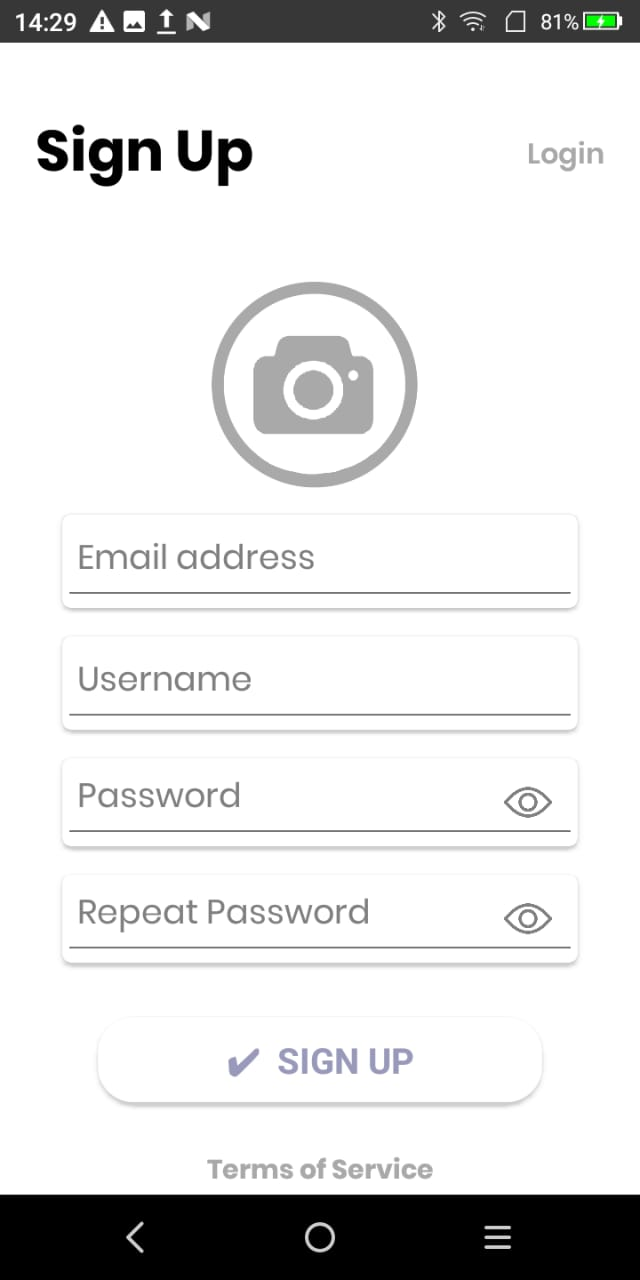
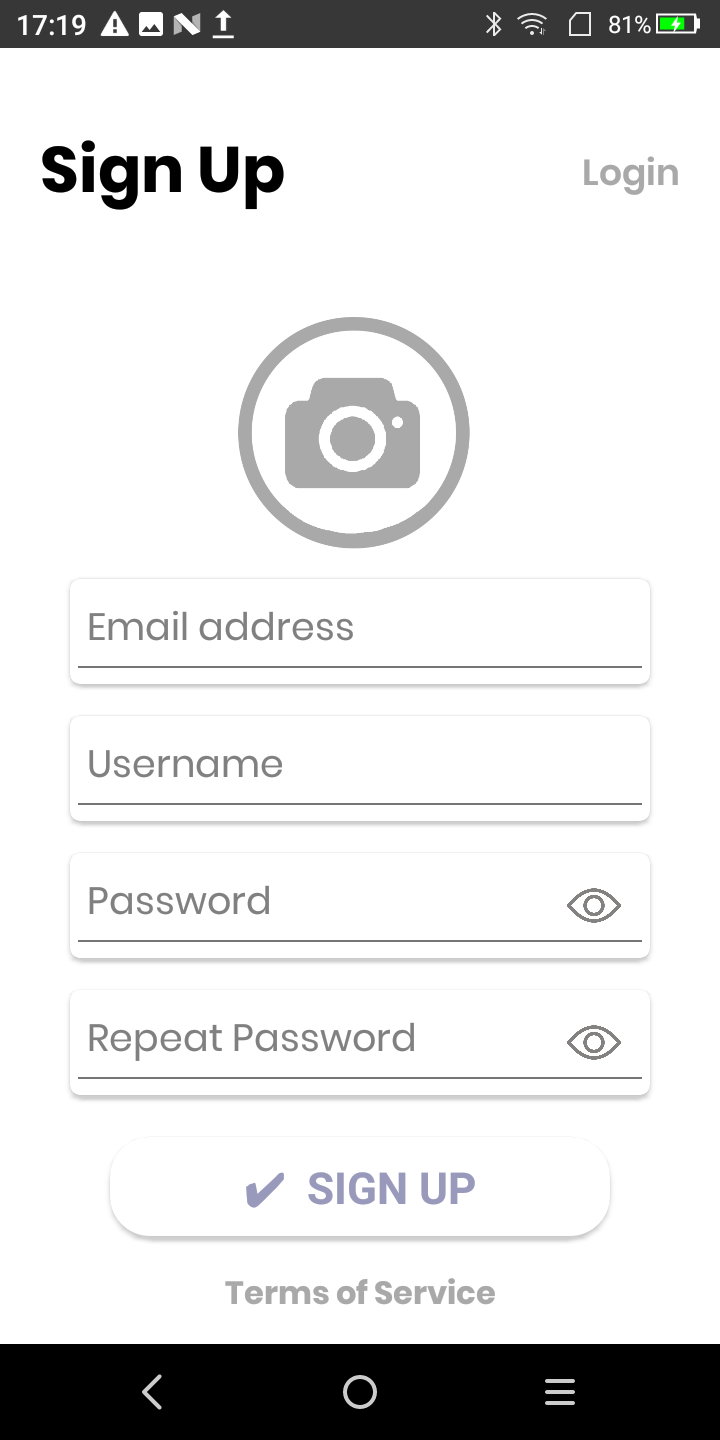
Fixing Charlin's Comments

diff --git a/Homework01/Homework01/Views/SignUpPage.xaml b/Homework01/Homework01/Views/SignUpPage.xaml
@@ -7,77 +7,81 @@
              BackgroundColor="White"
              x:Class="Homework01.Views.SignUpPage">
     <ContentPage.Content>
-        <Grid>
-            <Grid.ColumnDefinitions>
-                <ColumnDefinition Width="0.1*"></ColumnDefinition>
-                <ColumnDefinition Width="*"></ColumnDefinition>
-                <ColumnDefinition Width="0.1*"></ColumnDefinition>
-            </Grid.ColumnDefinitions>
-            <Grid.RowDefinitions>
-                <RowDefinition Height="2*"></RowDefinition>
-                <RowDefinition Height="8*"></RowDefinition>
-            </Grid.RowDefinitions>
+        <ScrollView>
 
-            <Label Grid.Column="0" Grid.ColumnSpan="2" Grid.Row="0" HorizontalTextAlignment="Start" VerticalTextAlignment="Center" FontFamily="{StaticResource PoppinsBoldFont}"
-                   Style="{StaticResource LabelStyle}" TextColor="Black" FontAttributes="Bold" FontSize="32"  Text="Sign Up" Margin="20,0"/>
+            <Grid>
+                <Grid.ColumnDefinitions>
+                    <ColumnDefinition Width="0.1*"></ColumnDefinition>
+                    <ColumnDefinition Width="*"></ColumnDefinition>
+                    <ColumnDefinition Width="0.1*"></ColumnDefinition>
+                </Grid.ColumnDefinitions>
+                <Grid.RowDefinitions>
+                    <RowDefinition Height="2*"></RowDefinition>
+                    <RowDefinition Height="8*"></RowDefinition>
+                </Grid.RowDefinitions>
 
-            <Label Grid.Column="1" Grid.ColumnSpan="2" Grid.Row="0" HorizontalTextAlignment="End" VerticalTextAlignment="Center" FontFamily="{StaticResource PoppinsSemiBoldFont}"
-                   Style="{StaticResource LabelStyle}" TextColor="DarkGray" Text="Login" FontAttributes="Bold" FontSize="16" Margin="20,0">
-                <Label.GestureRecognizers>
-                    <TapGestureRecognizer Command="{Binding LoginCommand}"></TapGestureRecognizer>
-                </Label.GestureRecognizers>
-            </Label>
-            <StackLayout Grid.Column="1" Grid.Row="1" HorizontalOptions="Center" VerticalOptions="Start">
+                <Label Grid.Column="0" Grid.ColumnSpan="2" Grid.Row="0" HorizontalTextAlignment="Start" VerticalTextAlignment="Center" FontFamily="{StaticResource PoppinsBoldFont}"
+                       Style="{StaticResource LabelStyle}" TextColor="Black" FontAttributes="Bold" FontSize="32"  Text="Sign Up" Margin="20,0"/>
 
-                <Image Source="ic_camara" HeightRequest="120" WidthRequest="120"></Image>
+                <Label Grid.Column="1" Grid.ColumnSpan="2" Grid.Row="0" HorizontalTextAlignment="End" VerticalTextAlignment="Center" FontFamily="{StaticResource PoppinsSemiBoldFont}"
+                       Style="{StaticResource LabelStyle}" TextColor="DarkGray" Text="Login" FontAttributes="Bold" FontSize="18" Margin="20,0">
+                    <Label.GestureRecognizers>
+                        <TapGestureRecognizer Command="{Binding LoginCommand}"></TapGestureRecognizer>
+                    </Label.GestureRecognizers>
+                </Label>
 
-                <Frame CornerRadius="5" Margin="0,5,0,5" Padding="0,0" HasShadow="True">
-                    <Entry Placeholder=" Email address "  PlaceholderColor="Gray" FontFamily="{StaticResource PoppinsFont}"
-                           HorizontalTextAlignment="Start" Text="{Binding User}"  FontSize="19"/>
-                </Frame>
+                <StackLayout Grid.Column="1" Grid.Row="1" HorizontalOptions="Center" VerticalOptions="Start" Margin="0,0,0,-20">
 
-                <Frame CornerRadius="5" Margin="0,5,0,5" Padding="0,0" HasShadow="True">
-                    <Entry Placeholder=" Username "  PlaceholderColor="Gray" FontFamily="{StaticResource PoppinsFont}"
-                           HorizontalTextAlignment="Start" Text="{Binding User}"  FontSize="19"/>
-                </Frame>
+                    <Image Source="ic_camara" HeightRequest="120" WidthRequest="120"></Image>
 
-                <Frame CornerRadius="5" Margin="0,5" Padding="0,0" HasShadow="True">
-                    <Grid>
-                        <Grid.ColumnDefinitions>
-                            <ColumnDefinition Width="9*"></ColumnDefinition>
-                            <ColumnDefinition Width="2*"></ColumnDefinition>
-                        </Grid.ColumnDefinitions>
+                    <Frame CornerRadius="5" Margin="0,5,0,5" Padding="0,0" HasShadow="True">
+                        <Entry Placeholder=" Email address "  PlaceholderColor="Gray" FontFamily="{StaticResource PoppinsFont}"
+                               HorizontalTextAlignment="Start" Text="{Binding User}"  FontSize="19"/>
+                    </Frame>
 
-                        <Entry Grid.Column="0" Grid.ColumnSpan="2" Placeholder=" Password"  PlaceholderColor="Gray" FontSize="19" 
-                               HorizontalTextAlignment="Start" Text="{Binding Password}"  FontFamily="{StaticResource PoppinsFont}" />
-                        <Image Grid.Column="1" Source="ic_eye" HeightRequest="0" Margin="10,0,15,0"/>
-                    </Grid>
-                </Frame>
+                    <Frame CornerRadius="5" Margin="0,5,0,5" Padding="0,0" HasShadow="True">
+                        <Entry Placeholder=" Username "  PlaceholderColor="Gray" FontFamily="{StaticResource PoppinsFont}"
+                               HorizontalTextAlignment="Start" Text="{Binding User}"  FontSize="19"/>
+                    </Frame>
 
-                <Frame CornerRadius="5" Margin="0,5" Padding="0,0" HasShadow="True">
-                    <Grid>
-                        <Grid.ColumnDefinitions>
-                            <ColumnDefinition Width="9*"></ColumnDefinition>
-                            <ColumnDefinition Width="2*"></ColumnDefinition>
-                        </Grid.ColumnDefinitions>
+                    <Frame CornerRadius="5" Margin="0,5" Padding="0,0" HasShadow="True">
+                        <Grid>
+                            <Grid.ColumnDefinitions>
+                                <ColumnDefinition Width="9*"></ColumnDefinition>
+                                <ColumnDefinition Width="2*"></ColumnDefinition>
+                            </Grid.ColumnDefinitions>
 
-                        <Entry Grid.Column="0" Grid.ColumnSpan="2" Placeholder=" Repeat Password"  PlaceholderColor="Gray" FontSize="19" 
-                               HorizontalTextAlignment="Start" Text="{Binding Password}"  FontFamily="{StaticResource PoppinsFont}" />
-                        <Image Grid.Column="1" Source="ic_eye" HeightRequest="0" Margin="10,0,15,0"/>
-                    </Grid>
-                </Frame>
+                            <Entry Grid.Column="0" Grid.ColumnSpan="2" Placeholder=" Password"  PlaceholderColor="Gray" FontSize="19" IsPassword="True"
+                                   HorizontalTextAlignment="Start" Text="{Binding Password}"  FontFamily="{StaticResource PoppinsFont}" />
+                            <Image Grid.Column="1" Source="ic_eye" HeightRequest="0" Margin="10,0,15,0"/>
+                        </Grid>
+                    </Frame>
+
+                    <Frame CornerRadius="5" Margin="0,5" Padding="0,0" HasShadow="True">
+                        <Grid>
+                            <Grid.ColumnDefinitions>
+                                <ColumnDefinition Width="9*"></ColumnDefinition>
+                                <ColumnDefinition Width="2*"></ColumnDefinition>
+                            </Grid.ColumnDefinitions>
+
+                            <Entry Grid.Column="0" Grid.ColumnSpan="2" Placeholder=" Repeat Password"  PlaceholderColor="Gray" FontSize="19" IsPassword="True"
+                                   HorizontalTextAlignment="Start" Text="{Binding ConfirmPassword}"  FontFamily="{StaticResource PoppinsFont}" />
+                            <Image Grid.Column="1" Source="ic_eye" HeightRequest="0" Margin="10,0,15,0"/>
+                        </Grid>
+                    </Frame>
 
 
-                <Frame BackgroundColor="FloralWhite" Margin="20,20" Padding="0,0" HasShadow="True" CornerRadius="20" BorderColor="DarkGray">
-                    <Button BackgroundColor="White" BorderColor="DarkGray" TextColor="#999abb" 
-                                Text="&#x2714;  Sign Up"  FontAttributes="Bold" FontSize="20"></Button>
-                </Frame>
+                    <Frame BackgroundColor="FloralWhite" Margin="20,10" Padding="0,0" HasShadow="True" CornerRadius="20" BorderColor="DarkGray">
+                        <Button BackgroundColor="White" BorderColor="DarkGray" TextColor="#999abb" 
+                                Text="&#x2714;  Sign Up"  FontAttributes="Bold" FontSize="22"></Button>
+                    </Frame>
 
-                <Label HorizontalTextAlignment="Center" VerticalTextAlignment="End" FontFamily="{StaticResource PoppinsBoldFont}"
-                       Style="{StaticResource LabelStyle}" TextColor="DarkGray" Text="Terms of Service" FontSize="15" />
+                    <Label HorizontalTextAlignment="Center" VerticalTextAlignment="End" FontFamily="{StaticResource PoppinsBoldFont}"
+                           Style="{StaticResource LabelStyle}" TextColor="DarkGray" Text="Terms of Service" FontSize="16" />
 
-            </StackLayout>
+                </StackLayout>
+            </Grid>
 
-        </Grid>
+        </ScrollView>
     </ContentPage.Content>
 </ContentPage>

diff --git a/Homework01/Homework01/Views/LoginPage.xaml b/Homework01/Homework01/Views/LoginPage.xaml
@@ -7,71 +7,76 @@
              BackgroundColor="White"
              x:Class="Homework01.Views.LoginPage">
     <ContentPage.Content>
-     
-        <Grid>
-            <Grid.ColumnDefinitions>
-                <ColumnDefinition Width="0.1*"></ColumnDefinition>
-                <ColumnDefinition Width="*"></ColumnDefinition>
-                <ColumnDefinition Width="0.1*"></ColumnDefinition>
-            </Grid.ColumnDefinitions>
-            <Grid.RowDefinitions>
-                <RowDefinition Height="2*"></RowDefinition>
-                <RowDefinition Height="8*"></RowDefinition>
-            </Grid.RowDefinitions>
+        <ScrollView>
 
-            <Label Grid.Column="0" Grid.ColumnSpan="2" Grid.Row="0" HorizontalTextAlignment="Start" VerticalTextAlignment="Center" FontFamily="{StaticResource PoppinsBoldFont}"
-                   Style="{StaticResource LabelStyle}" TextColor="Black" FontAttributes="Bold" FontSize="32"  Text="Login" Margin="20,0"/>
+            <Grid>
+                <Grid.ColumnDefinitions>
+                    <ColumnDefinition Width="0.1*"></ColumnDefinition>
+                    <ColumnDefinition Width="*"></ColumnDefinition>
+                    <ColumnDefinition Width="0.1*"></ColumnDefinition>
+                </Grid.ColumnDefinitions>
+                <Grid.RowDefinitions>
+                    <RowDefinition Height="2*"></RowDefinition>
+                    <RowDefinition Height="8*"></RowDefinition>
+                </Grid.RowDefinitions>
 
-            <Label Grid.Column="1" Grid.ColumnSpan="2" Grid.Row="0" HorizontalTextAlignment="End" VerticalTextAlignment="Center" FontFamily="{StaticResource PoppinsSemiBoldFont}"
-                   Style="{StaticResource LabelStyle}" TextColor="DarkGray" Text="Sign Up" FontAttributes="Bold" FontSize="16" Margin="20,0">
-                <Label.GestureRecognizers>
-                    <TapGestureRecognizer Command="{Binding SignupCommand}"></TapGestureRecognizer>
-                </Label.GestureRecognizers>
-            </Label>
-            <StackLayout Grid.Column="1" Grid.Row="1" HorizontalOptions="Center" VerticalOptions="Start">
+                <Label Grid.Column="0" Grid.ColumnSpan="2" Grid.Row="0" HorizontalTextAlignment="Start" VerticalTextAlignment="Center" FontFamily="{StaticResource PoppinsBoldFont}"
+                       Style="{StaticResource LabelStyle}" TextColor="Black" FontAttributes="Bold" FontSize="32"  Text="Login" Margin="20,0"/>
 
-                <Image Source="ic_user" HeightRequest="110" WidthRequest="110"></Image>
+                <Label Grid.Column="1" Grid.ColumnSpan="2" Grid.Row="0" HorizontalTextAlignment="End" VerticalTextAlignment="Center" FontFamily="{StaticResource PoppinsSemiBoldFont}"
+                       Style="{StaticResource LabelStyle}" TextColor="DarkGray" Text="Sign Up" FontAttributes="Bold" FontSize="18" Margin="20,0">
+                    <Label.GestureRecognizers>
+                        <TapGestureRecognizer Command="{Binding SignupCommand}"></TapGestureRecognizer>
+                    </Label.GestureRecognizers>
+                </Label>
 
-                <Frame CornerRadius="5" Margin="0,15,0,5" Padding="0,0" HasShadow="True">
-                    <Entry Placeholder=" Username or email address "  PlaceholderColor="Gray" FontFamily="{StaticResource PoppinsFont}"
-                           HorizontalTextAlignment="Start" Text="{Binding User}"  FontSize="19"/>
-                </Frame>
+                <StackLayout Grid.Column="1" Grid.Row="1"
+                             HorizontalOptions="Center" VerticalOptions="Start">
 
-                <Frame CornerRadius="5" Margin="0,5" Padding="0,0" HasShadow="True">
-                    <Grid>
+                    <Image Source="ic_user" HeightRequest="110" WidthRequest="110" Margin="0,0,0,15"></Image>
+
+                    <Frame CornerRadius="5" Margin="0,15,0,5" Padding="0,0" HasShadow="True">
+                        <Entry Placeholder=" Username or email address "  PlaceholderColor="Gray" FontFamily="{StaticResource PoppinsFont}"
+                               HorizontalTextAlignment="Start" Text="{Binding User}"  FontSize="19"/>
+                    </Frame>
+
+                    <Frame CornerRadius="5" Margin="0,5" Padding="0,0" HasShadow="True">
+                        <Grid>
+                            <Grid.ColumnDefinitions>
+                                <ColumnDefinition Width="9*"></ColumnDefinition>
+                                <ColumnDefinition Width="2*"></ColumnDefinition>
+                            </Grid.ColumnDefinitions>
+
+                            <Entry Grid.Column="0" Grid.ColumnSpan="2" Placeholder=" Password"  PlaceholderColor="Gray" FontSize="19" IsPassword="True"
+                                   HorizontalTextAlignment="Start" Text="{Binding Password}" FontFamily="{StaticResource PoppinsFont}" />
+                            <Image Grid.Column="1" Source="ic_eye" HeightRequest="0" Margin="10,0,15,0"/>
+                        </Grid>
+                    </Frame>
+
+                    <Frame BackgroundColor="FloralWhite" Margin="20,20" Padding="0,0" HasShadow="True" CornerRadius="20" BorderColor="DarkGray">
+                        <Button BackgroundColor="White" BorderColor="DarkGray" TextColor="#999abb" 
+                                Text="&#x2714;  Log In"  FontAttributes="Bold" FontSize="22"></Button>
+                    </Frame>
+
+                    <Label Margin="0,30,0,0" HorizontalTextAlignment="Center" VerticalTextAlignment="End" FontFamily="{StaticResource PoppinsBoldFont}"
+                           Style="{StaticResource LabelStyle}" TextColor="DarkGray" Text="Login with" FontSize="16" />
+
+                    <Grid HeightRequest="50" ColumnSpacing="10" Margin="25,10">
                         <Grid.ColumnDefinitions>
-                            <ColumnDefinition Width="9*"></ColumnDefinition>
+                            <ColumnDefinition Width="2*"></ColumnDefinition>
+                            <ColumnDefinition Width="2*"></ColumnDefinition>
+                            <ColumnDefinition Width="2*"></ColumnDefinition>
                             <ColumnDefinition Width="2*"></ColumnDefinition>
                         </Grid.ColumnDefinitions>
 
-                        <Entry Grid.Column="0" Grid.ColumnSpan="2" Placeholder=" Password"  PlaceholderColor="Gray" FontSize="19" 
-                               HorizontalTextAlignment="Start" Text="{Binding Password}"  FontFamily="{StaticResource PoppinsFont}" />
-                        <Image Grid.Column="1" Source="ic_eye" HeightRequest="0" Margin="10,0,15,0"/>
+                        <Image Grid.Column="0" Source="ic_google" />
+                        <Image Grid.Column="1" Source="ic_github" />
+                        <Image Grid.Column="2" Source="ic_twitter" />
+                        <Image Grid.Column="3" Source="ic_facebook" />
                     </Grid>
-                </Frame>
-                <Frame BackgroundColor="FloralWhite" Margin="20,20" Padding="0,0" HasShadow="True" CornerRadius="20" BorderColor="DarkGray">
-                        <Button BackgroundColor="White" BorderColor="DarkGray" TextColor="#999abb" 
-                                Text="&#x2714;  Log In"  FontAttributes="Bold" FontSize="22"></Button>
-                </Frame>
+                </StackLayout>
+            </Grid>
 
-                <Label Margin="0,30,0,0" HorizontalTextAlignment="Center" VerticalTextAlignment="End" FontFamily="{StaticResource PoppinsBoldFont}"
-                       Style="{StaticResource LabelStyle}" TextColor="DarkGray" Text="Login with" FontSize="15" />
-
-                <Grid HeightRequest="50" ColumnSpacing="10" Margin="25,10">
-                    <Grid.ColumnDefinitions>
-                        <ColumnDefinition Width="2*"></ColumnDefinition>
-                        <ColumnDefinition Width="2*"></ColumnDefinition>
-                        <ColumnDefinition Width="2*"></ColumnDefinition>
-                        <ColumnDefinition Width="2*"></ColumnDefinition>
-                    </Grid.ColumnDefinitions>
-
-                    <Image Grid.Column="0" Source="ic_google" />
-                    <Image Grid.Column="1" Source="ic_github" />
-                    <Image Grid.Column="2" Source="ic_twitter" />
-                    <Image Grid.Column="3" Source="ic_facebook" />
-                </Grid>
-            </StackLayout>
-
-        </Grid>
+        </ScrollView>
     </ContentPage.Content>
 </ContentPage>

diff --git a/Homework01/Homework01/ViewModels/SignUpPageViewModel.cs b/Homework01/Homework01/ViewModels/SignUpPageViewModel.cs
@@ -12,14 +12,13 @@ namespace Homework01.ViewModels
 
         public DelegateCommand LoginCommand { get; set; }
 
-
         public SignUpPageViewModel(INavigationService navigationService, IPageDialogService pageDialogService) 
             : base(navigationService, pageDialogService)
         {
 
             LoginCommand = new DelegateCommand(async () =>
             {
-                await NavigationService.NavigateAsync(new Uri($"/NavigationPage/LoginPage", UriKind.Absolute));
+                await NavigationService.NavigateAsync(new Uri($"/{Config.Login}", UriKind.Relative));
             });
         }
     }

diff --git a/Homework01/Homework01/ViewModels/LoginPageViewModel.cs b/Homework01/Homework01/ViewModels/LoginPageViewModel.cs
@@ -18,7 +18,7 @@ namespace Homework01.ViewModels
 
             SignupCommand = new DelegateCommand(async () =>
             {
-                await NavigationService.NavigateAsync(new Uri($"/NavigationPage/SignUpPage", UriKind.Absolute));
+                await NavigationService.NavigateAsync(new Uri($"/{Config.Signup}", UriKind.Relative));
             });
         }
     }

diff --git a/Homework01/Homework01/Config.cs b/Homework01/Homework01/Config.cs
@@ -1,0 +1,16 @@
+using System;
+using System.Collections.Generic;
+using System.Text;
+
+namespace Homework01
+{
+    public static class Config
+    {
+        //Navigation
+        public static string Navigation = "NavigationPage";
+
+        //Pages
+        public static string Login = "LoginPage";
+        public static string Signup = "SignUpPage";
+    }
+}

diff --git a/Homework01/Homework01/App.xaml.cs b/Homework01/Homework01/App.xaml.cs
@@ -23,7 +23,7 @@ namespace Homework01
         {
             InitializeComponent();
 
-            await NavigationService.NavigateAsync("NavigationPage/LoginPage");
+            await NavigationService.NavigateAsync($"{Config.Navigation}/{Config.Login}");
         }
 
         protected override void RegisterTypes(IContainerRegistry containerRegistry)
